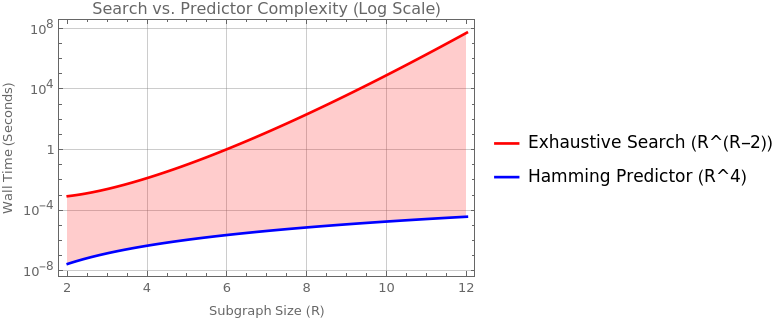
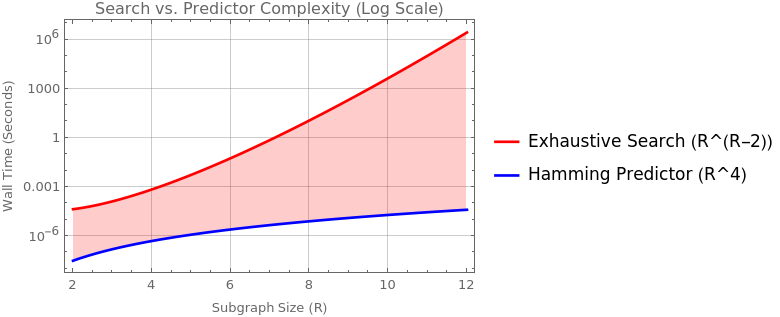
more updates to curve fit and R=10 data

diff --git a/README.md b/README.md
@@ -62,6 +62,8 @@ This program enumerates all connected subgraphs of size $R$, up to $R=10$, enabl
 
 Each line reports a neighbor-set formula `(coeff)(n-k) - const` for a connected subgraph of $R$ vertices. The **minimum** (last line for each $R$) gives the $(R-1)$-extraconnectivity, verifying Theorems 1–7.
 
+\footnotesize
+
 ```text
 Searching R=2 (nauty limit: 3)
   ver[0]=AB  ver[1]=CB
@@ -158,6 +160,8 @@ Pruned | Iso: 2921831 | Exact: 41791746 | Local: 5041435454
   formula(n=20,k=10): |N(V')| = 85·10 - 19 = 831
 ```
 
+\normalsize
+
 \newpage
 
 ### Complexity
@@ -175,33 +179,33 @@ The search space is Ω(R^(R−2)) by Cayley's formula; observed growth is ×22 a
 
 ### Summary table
 
-| R   | (R-1)-extraconnectivity     | Paper reference         | \|N(V')\| at n=2R, k=R             | Runtime |
-| --- | --------------------------- | ----------------------- | ---------------------------------- | ------- |
-| 2   | (2k−1)(n−k) − 1             | Theorem 1               | (3)(2) − 1 = 5                     | <0.001s |
-| 3   | (3k−2)(n−k) − 3             | Theorem 2               | (7)(3) − 3 = 18                    | <0.001s |
-| 4   | (4k−4)(n−k) − 4             | Theorem 3               | (12)(4) − 4 = 44                   | <0.001s |
-| 5   | (5k−5)(n−k) − 7             | Theorem 5               | (20)(5) − 7 = 93                   | <0.001s |
-| 6   | (6k−7)(n−k) − 9             | Theorem 6               | (29)(6) − 9 = 165                  | 0.004s  |
-| 7   | (7k−9)(n−k) − 11            | Theorem 7               | (40)(7) − 11 = 269                 | 0.07s   |
-| 8   | **(8k−12)(n−k) − 12**       | **New (this work)**     | **(52)(8) − 12 = 404**             | 1.8s    |
-| 9   | **(9k−13)(n−k) − 16**       | **New (this work)**     | **(68)(9) − 16 = 596**             | 72s     |
-| 10  | **(10k−15)(n−k) − 19**      | **Predicted (A000788)** | **(85)(10) − 19 = 831**            | ~30min  |
-| 11  | **(11k−18)(n−k) − 22**      | **Predicted**           | **(103)(11) − 22 = 1111**          | ~12h    |
-| 12  | **(12k−20)(n−k) − 24**      | **Predicted**           | **(124)(12) − 24 = 1464**          | ~12d    |
-| 13  | **(13k−22)(n−k) − 27**      | **Predicted**           | **(147)(13) − 27 = 1884**          | ~1y     |
-| 14  | **(14k−25)(n−k) − 29**      | **Predicted**           | **(171)(14) − 29 = 2365**          | ~25y    |
-| 15  | **(15k−28)(n−k) − 31**      | **Predicted**           | **(197)(15) − 31 = 2924**          | infeas. |
-| 16  | **(16k−32)(n−k) − 32**      | **Predicted (4-cube)**  | **(224)(16) − 32 = 3552**          | infeas. |
-| 20  | **(20k−40)(n−k) − 48**      | **Predicted**           | **(360)(20) − 48 = 7152**          | infeas. |
-| 24  | **(24k−52)(n−k) − 60**      | **Predicted**           | **(524)(24) − 60 = 12516**         | infeas. |
-| 32  | **(32k−80)(n−k) − 80**      | **Predicted (5-cube)**  | **(944)(32) − 80 = 30128**         | infeas. |
-| 48  | **(48k−128)(n−k) − 144**    | **Predicted**           | **(2176)(48) − 144 = 104304**      | infeas. |
-| 64  | **(64k−192)(n−k) − 192**    | **Predicted (6-cube)**  | **(3904)(64) − 192 = 249664**      | infeas. |
-| 96  | **(96k−304)(n−k) − 336**    | **Predicted**           | **(8912)(96) − 336 = 855216**      | infeas. |
-| 100 | **(100k−316)(n−k) − 356**   | **Predicted**           | **(9684)(100) − 356 = 968044**     | infeas. |
-| 128 | **(128k−448)(n−k) − 448**   | **Predicted (7-cube)**  | **(15936)(128) − 448 = 2039360**   | infeas. |
-| 192 | **(192k−704)(n−k) − 768**   | **Predicted**           | **(36160)(192) − 768 = 6941952**   | infeas. |
-| 256 | **(256k−1024)(n−k) − 1024** | **Predicted (8-cube)**  | **(64512)(256) − 1024 = 16514048** | infeas. |
+| R   | (R-1)-extraconnectivity     | Paper reference        | \|N(V')\| at n=2R, k=R             | Runtime |
+| --- | --------------------------- | ---------------------- | ---------------------------------- | ------- |
+| 2   | (2k−1)(n−k) − 1             | Theorem 1              | (3)(2) − 1 = 5                     | <0.001s |
+| 3   | (3k−2)(n−k) − 3             | Theorem 2              | (7)(3) − 3 = 18                    | <0.001s |
+| 4   | (4k−4)(n−k) − 4             | Theorem 3              | (12)(4) − 4 = 44                   | <0.001s |
+| 5   | (5k−5)(n−k) − 7             | Theorem 5              | (20)(5) − 7 = 93                   | <0.001s |
+| 6   | (6k−7)(n−k) − 9             | Theorem 6              | (29)(6) − 9 = 165                  | 0.004s  |
+| 7   | (7k−9)(n−k) − 11            | Theorem 7              | (40)(7) − 11 = 269                 | 0.07s   |
+| 8   | **(8k−12)(n−k) − 12**       | **New (this work)**    | **(52)(8) − 12 = 404**             | 1.8s    |
+| 9   | **(9k−13)(n−k) − 16**       | **New (this work)**    | **(68)(9) − 16 = 596**             | 72s     |
+| 10  | **(10k−15)(n−k) − 19**      | **New (this work)**    | **(85)(10) − 19 = 831**            | 69m     |
+| 11  | **(11k−18)(n−k) − 22**      | **Predicted**          | **(103)(11) − 22 = 1111**          | ~12h    |
+| 12  | **(12k−20)(n−k) − 24**      | **Predicted**          | **(124)(12) − 24 = 1464**          | ~12d    |
+| 13  | **(13k−22)(n−k) − 27**      | **Predicted**          | **(147)(13) − 27 = 1884**          | ~1y     |
+| 14  | **(14k−25)(n−k) − 29**      | **Predicted**          | **(171)(14) − 29 = 2365**          | ~25y    |
+| 15  | **(15k−28)(n−k) − 31**      | **Predicted**          | **(197)(15) − 31 = 2924**          | infeas. |
+| 16  | **(16k−32)(n−k) − 32**      | **Predicted (4-cube)** | **(224)(16) − 32 = 3552**          | infeas. |
+| 20  | **(20k−40)(n−k) − 48**      | **Predicted**          | **(360)(20) − 48 = 7152**          | infeas. |
+| 24  | **(24k−52)(n−k) − 60**      | **Predicted**          | **(524)(24) − 60 = 12516**         | infeas. |
+| 32  | **(32k−80)(n−k) − 80**      | **Predicted (5-cube)** | **(944)(32) − 80 = 30128**         | infeas. |
+| 48  | **(48k−128)(n−k) − 144**    | **Predicted**          | **(2176)(48) − 144 = 104304**      | infeas. |
+| 64  | **(64k−192)(n−k) − 192**    | **Predicted (6-cube)** | **(3904)(64) − 192 = 249664**      | infeas. |
+| 96  | **(96k−304)(n−k) − 336**    | **Predicted**          | **(8912)(96) − 336 = 855216**      | infeas. |
+| 100 | **(100k−316)(n−k) − 356**   | **Predicted**          | **(9684)(100) − 356 = 968044**     | infeas. |
+| 128 | **(128k−448)(n−k) − 448**   | **Predicted (7-cube)** | **(15936)(128) − 448 = 2039360**   | infeas. |
+| 192 | **(192k−704)(n−k) − 768**   | **Predicted**          | **(36160)(192) − 768 = 6941952**   | infeas. |
+| 256 | **(256k−1024)(n−k) − 1024** | **Predicted (8-cube)** | **(64512)(256) − 1024 = 16514048** | infeas. |
 
 † R>=10 predicted via Hamming ball construction (`predict.cpp`), brute-force verified for R<=20.
 
